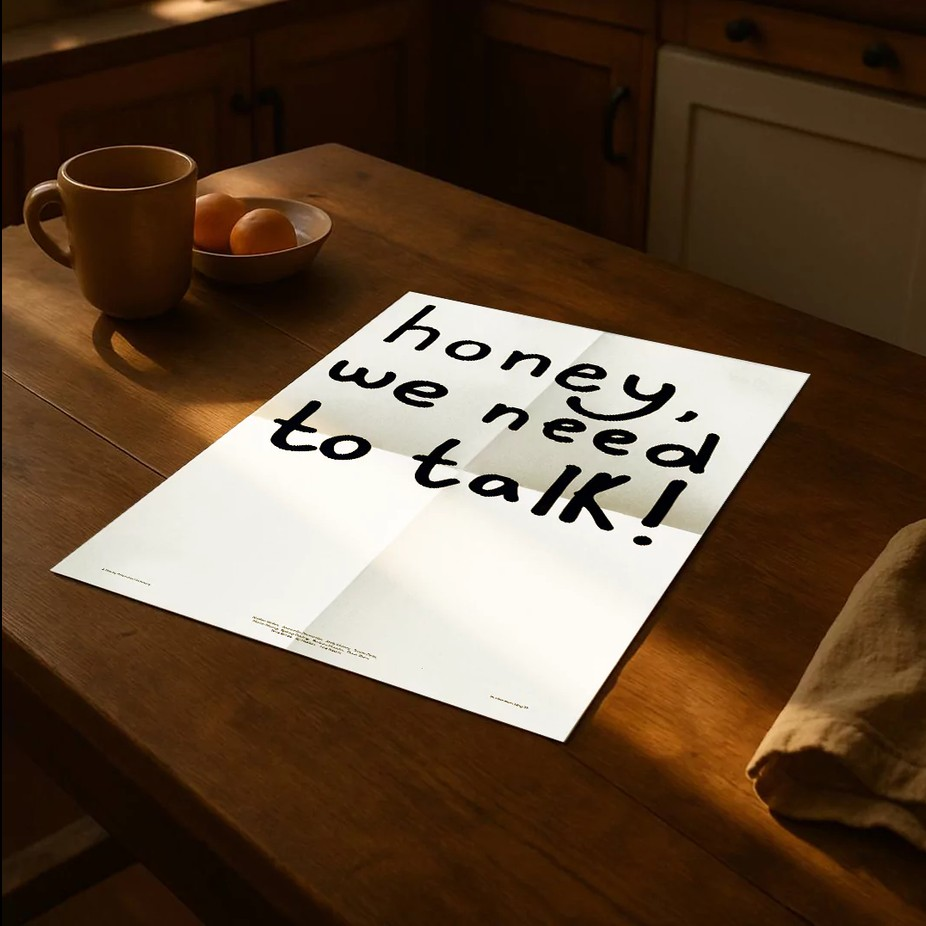
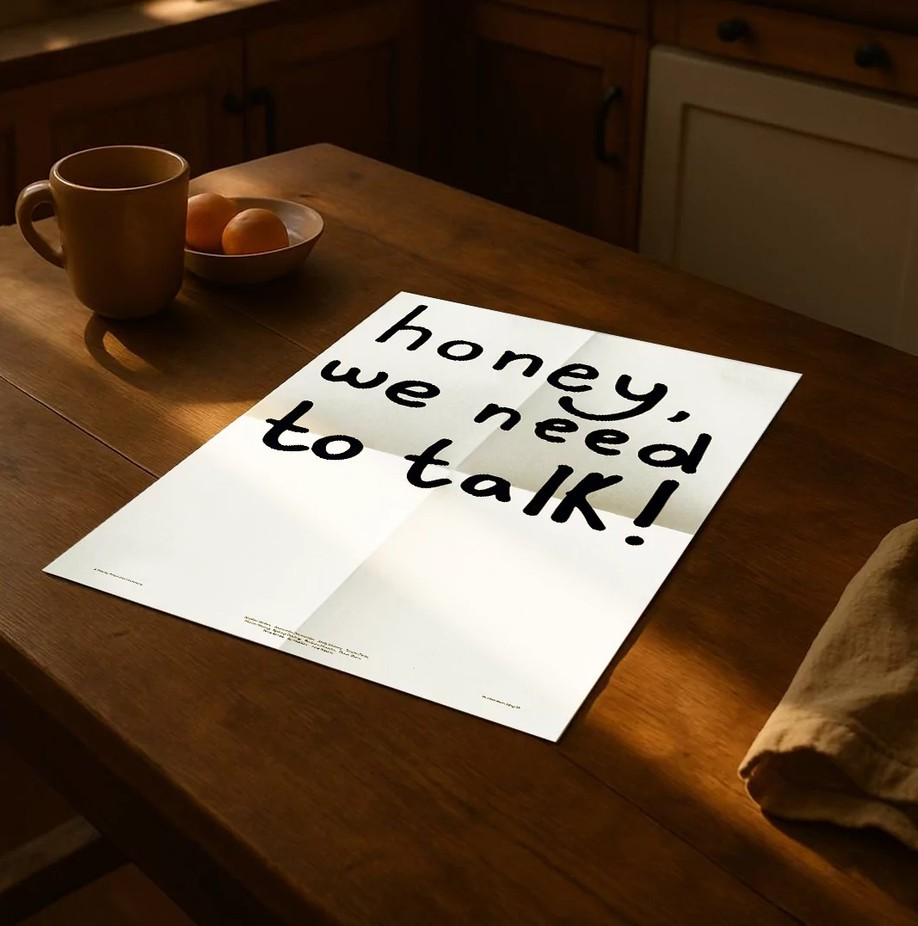
bug fixes

diff --git a/works/home.html b/works/home.html
@@ -48,7 +48,8 @@
             </section>
         </div>
     <div class="foot">	
-		<h2 class="logo" style="text-align: center; margin-bottom: 100px; font-size: 150%;">2026 © Nenko. All rights reserved.</h2>
+		<img src="../ico/nenko logo-01.svg">
+        <h2 class="logo" style="text-align: center; margin-bottom: 100px; font-size: 150%;">2026 © Nenko. All rights reserved.</h2>
 	</div>
     </div>
 </body>
